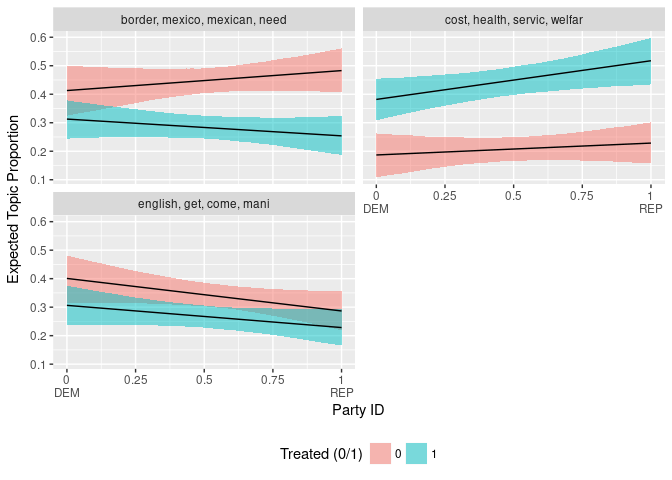
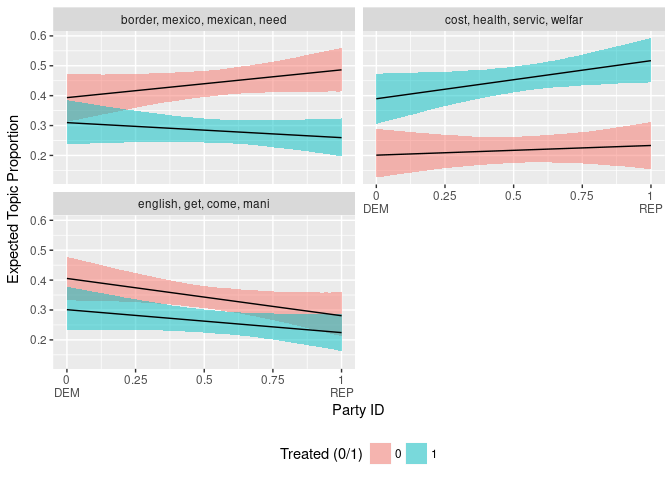
Fixed typo in readme

diff --git a/README.md b/README.md
@@ -24,9 +24,11 @@ devtools::install_github("mikaelpoul/tidystm", dependencies = TRUE)
 The package, for now, includes one function: `extract.estimateEffect()`. You run it just as you would run the `plot.estimateEffect()` function included in the `stm` package. E.g.:
 
 ``` r
-## Load the packages
+## Load the packages and set seed
 library(stm)
 library(tidystm)
+
+set.seed(2016)
 
 ## Load the example data from the stm pacakge
 data(gadarian)
@@ -38,26 +40,28 @@ effect <- extract.estimateEffect(prep, "treatment", model = gadarianFit, method 
 
 print(effect)
 #>          method topic covariate covariate.value  estimate  std.error
-#> 1 pointestimate     1 treatment               1 0.2813203 0.02110291
-#> 2 pointestimate     1 treatment               0 0.4427874 0.02045515
-#> 3 pointestimate     2 treatment               1 0.4555024 0.02129567
-#> 4 pointestimate     2 treatment               0 0.2089355 0.02167457
-#> 5 pointestimate     3 treatment               1 0.2625156 0.01904945
-#> 6 pointestimate     3 treatment               0 0.3476877 0.01947305
+#> 1 pointestimate     1 treatment               1 0.2804612 0.02060757
+#> 2 pointestimate     1 treatment               0 0.4439191 0.02369964
+#> 3 pointestimate     2 treatment               1 0.4569280 0.02298090
+#> 4 pointestimate     2 treatment               0 0.2099581 0.02143746
+#> 5 pointestimate     3 treatment               1 0.2629073 0.01962893
+#> 6 pointestimate     3 treatment               0 0.3459851 0.02258847
 #>   ci.level  ci.lower  ci.upper                       label
-#> 1     0.95 0.2399911 0.3236230 Topic 1(Covariate Level: 1)
-#> 2     0.95 0.4035731 0.4831275 Topic 1(Covariate Level: 1)
-#> 3     0.95 0.4136588 0.4969822 Topic 2(Covariate Level: 1)
-#> 4     0.95 0.1666202 0.2512425 Topic 2(Covariate Level: 1)
-#> 5     0.95 0.2251021 0.2995389 Topic 3(Covariate Level: 1)
-#> 6     0.95 0.3085736 0.3848827 Topic 3(Covariate Level: 1)
+#> 1     0.95 0.2402753 0.3201613 Topic 1(Covariate Level: 1)
+#> 2     0.95 0.3987170 0.4904847 Topic 1(Covariate Level: 1)
+#> 3     0.95 0.4121723 0.5011797 Topic 2(Covariate Level: 1)
+#> 4     0.95 0.1670091 0.2519835 Topic 2(Covariate Level: 1)
+#> 5     0.95 0.2244965 0.3043431 Topic 3(Covariate Level: 1)
+#> 6     0.95 0.3024164 0.3903011 Topic 3(Covariate Level: 1)
 ```
 
 You can then use the results however you like. This is especially helpful if you want to plot it for yourself when the included plot functions doesnt cut it. For example:
 
 ``` r
 
-## This time, lets estimate treatment effect as a function of party id. We can than get an idea of whether the treatment effect vary for people with different ids.
+## This time, lets estimate treatment effect as a function of party
+## id. We can than get an idea of whether the treatment effect vary
+## for people with different ids.
 prep <- estimateEffect(formula = 1:3 ~ treatment + pid_rep + treatment:pid_rep,
                        stmobj = gadarianFit,
                        metadata = gadarian)
